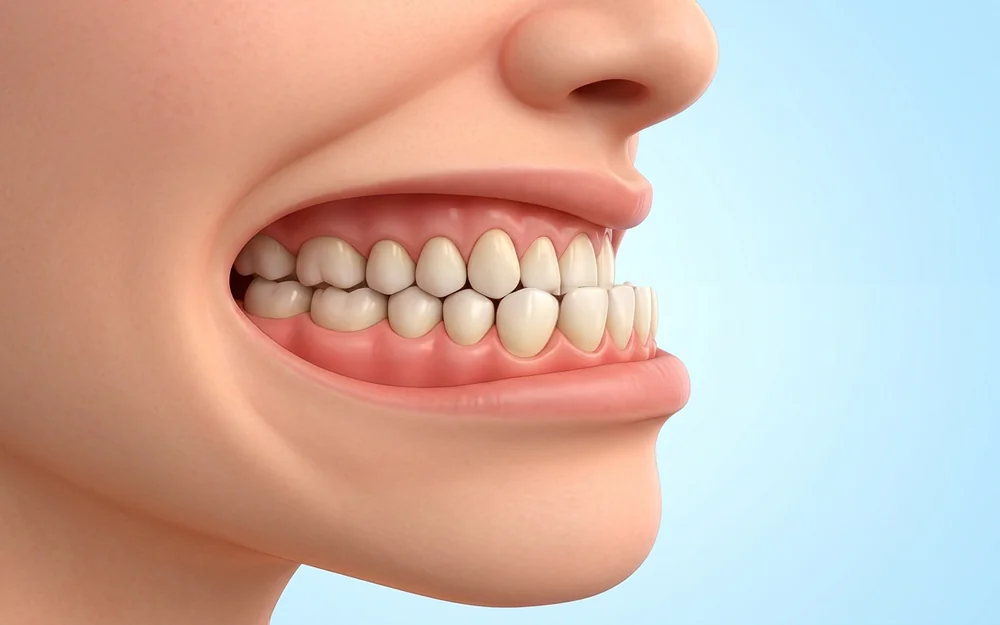
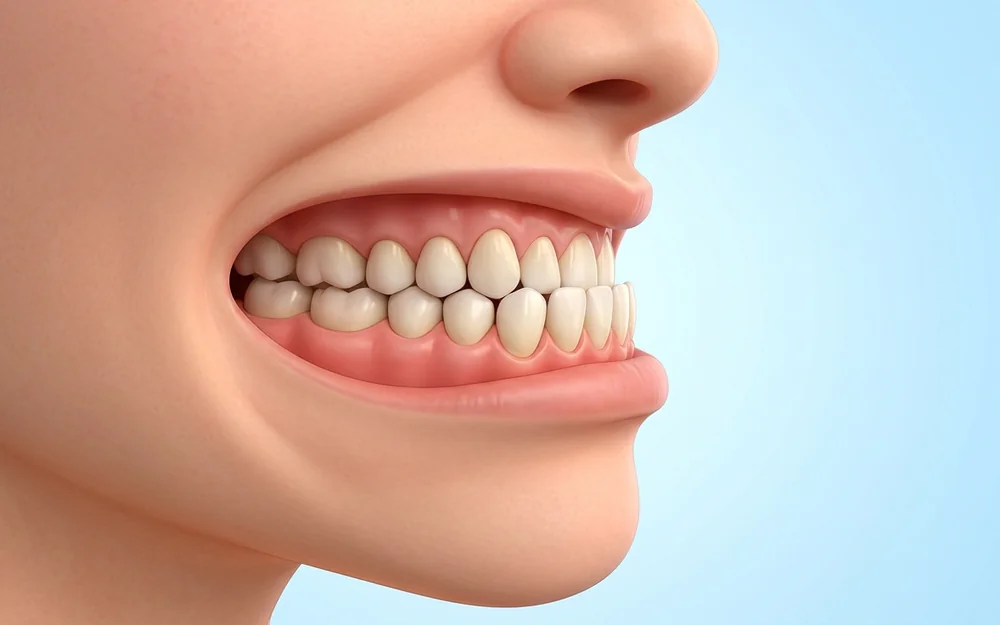
Malocclusioni: ripristinata la terza classe originale; nuovo paragrafo sulla chirurgia ortognatica con l'immagine della terza classe grave
Claude-Session: https://claude.ai/code/session_01D1jf4jZQnPDjXWp1a4YFR6

Changed region(s): [[0.527, 0.456, 0.713, 0.9728]]

diff --git a/guida-ortodonzia/malocclusioni/index.html b/guida-ortodonzia/malocclusioni/index.html
@@ -244,9 +244,12 @@ footer.foot a{color:#fff}
 <p>L'arcata superiore è avanzata rispetto a quella inferiore, oppure la mandibola è arretrata. Spesso gli incisivi superiori sporgono. Le revisioni Cochrane indicano che i bambini con incisivi molto sporgenti hanno un rischio maggiore di traumi a questi denti, e che il trattamento precoce può ridurre questo rischio.</p><figure class="fig3d"><img src="/img/guida/sorriso-seconda-classe.webp" width="1000" height="625" alt="Seconda classe: incisivi superiori sporgenti, visti di profilo e di fronte" loading="lazy" decoding="async"><figcaption>Seconda classe: di profilo (a sinistra) gli incisivi superiori sporgono molto in avanti rispetto agli inferiori; a destra lo stesso sorriso visto di fronte. <span class="tag3d">Immagine illustrativa</span></figcaption></figure>
 <h3 id="terza-classe">Terza classe</h3>
 <p>La mandibola è avanzata o il mascellare superiore è arretrato, e i denti inferiori chiudono davanti a quelli superiori. Quando la causa è scheletrica, il momento della crescita in cui si interviene ha un peso importante.</p><figure class="fig3d"><img src="/img/guida/sorriso-terza-classe.webp" width="1000" height="625" alt="Terza classe: denti inferiori più avanti dei superiori, vista di profilo" loading="lazy" decoding="async"><figcaption>Terza classe: di profilo i denti inferiori chiudono avanti rispetto ai superiori e il mento appare pronunciato. <span class="tag3d">Immagine illustrativa</span></figcaption></figure>
+<h3 id="quando-serve-la-chirurgia-ortognatica">Quando serve la chirurgia ortognatica</h3>
+<p>Se la differenza tra mascellare superiore e mandibola è molto marcata, come nell'immagine qui sotto, e la crescita è terminata, l'apparecchio da solo non basta a correggere una seconda o una terza classe: può spostare i denti, ma non la posizione delle ossa. In questi casi si ricorre alla chirurgia ortognatica, un intervento che riposiziona il mascellare, la mandibola o entrambi.</p><figure class="fig3d"><img src="/img/guida/terza-classe-grave.webp" width="1000" height="625" alt="Terza classe grave, con mandibola molto avanzata, vista di profilo" loading="lazy" decoding="async"><figcaption>Terza classe molto marcata: la mandibola e il labbro inferiore sono nettamente avanti rispetto all&#x27;arcata superiore. In un adulto un caso così richiede di solito ortodonzia e chirurgia ortognatica. <span class="tag3d">Immagine illustrativa</span></figcaption></figure>
+<p>Il trattamento è combinato: l'ortodontista prepara le arcate con l'apparecchio prima dell'intervento, il chirurgo maxillo-facciale corregge la posizione delle ossa e dopo l'intervento l'apparecchio completa la chiusura dei denti. Nei bambini e nei ragazzi ancora in crescita, riconoscere per tempo una seconda o una terza classe scheletrica permette invece di valutare se è possibile guidare la crescita e ridurre il problema.</p>
 <h2 id="piu-problemi-insieme">Più problemi insieme</h2>
 <p>Nella pratica le malocclusioni si combinano spesso tra loro: per esempio affollamento con morso profondo, o morso crociato con un palato stretto. La classificazione serve a descrivere il caso, ma il piano di trattamento si costruisce sull'insieme dei problemi del singolo paziente.</p>
-<div class="sintesi"><h2>In sintesi</h2><ul><li>Le malocclusioni sono molto diffuse e di tipi diversi: di spazio, verticali, trasversali e antero-posteriori.</li><li>Alcune, come il morso crociato e gli incisivi molto sporgenti, conviene valutarle durante la crescita.</li><li>Il piano di trattamento considera tutti i problemi del paziente insieme.</li></ul></div><details class="bib"><summary>Fonti scientifiche</summary><ol><li>Alhammadi MS, Halboub E, Fayed MS, Labib A, El-Saaidi C. Global distribution of malocclusion traits: a systematic review. Dental Press J Orthod. 2018;23(6):40.e1-40.e10. <a href="https://doi.org/10.1590/2177-6709.23.6.40.e1-10.onl" rel="noopener">DOI: 10.1590/2177-6709.23.6.40.e1-10.onl</a> PMID: 30672991.</li><li>Batista KBSL, Thiruvenkatachari B, Harrison JE, O'Brien KD. Orthodontic treatment for prominent upper front teeth (Class II malocclusion) in children and adolescents. Cochrane Database Syst Rev. 2018;3:CD003452. <a href="https://doi.org/10.1002/14651858.CD003452.pub4" rel="noopener">DOI: 10.1002/14651858.CD003452.pub4</a> PMID: 29534303.</li><li>Ugolini A, Agostino P, Silvestrini-Biavati A, Harrison JE, Batista KBSL. Orthodontic treatment for posterior crossbites. Cochrane Database Syst Rev. 2021;12:CD000979. <a href="https://doi.org/10.1002/14651858.CD000979.pub3" rel="noopener">DOI: 10.1002/14651858.CD000979.pub3</a> PMID: 34951927.</li><li>Millett DT, Cunningham SJ, O'Brien KD, Benson PE, de Oliveira CM. Orthodontic treatment for deep bite and retroclined upper front teeth in children. Cochrane Database Syst Rev. 2018;2:CD005972. <a href="https://doi.org/10.1002/14651858.CD005972.pub4" rel="noopener">DOI: 10.1002/14651858.CD005972.pub4</a></li></ol></details><div class="cta"><p>Hai dubbi su questo argomento? Parlane alla visita.</p><div class="acts"><a class="btn light" href="tel:+393921873886" data-track="tel_cap2">Chiama</a><a class="btn line" href="https://wa.me/393921873886" target="_blank" rel="noopener" data-track="whatsapp_cap2">WhatsApp</a></div></div><aside class="author-box" aria-label="L'autrice"><img class="" src="https://static.wixstatic.com/media/d8fd36_3d2ea2b030e64a1b9d21d2137a645a65~mv2.jpg/v1/crop/x_1300,y_380,w_1100,h_1375/fill/w_240,h_300,al_c,q_85/dott-ssa-irene-agrestini.jpg" width="120" height="150" alt="Dott.ssa Irene Agrestini, ortodontista a Pescara" loading="lazy"><div><span class="eyebrow">Chi ha scritto questo capitolo</span><br><b>Dott.ssa Irene Agrestini</b><p>Ortodontista a Pescara. Da 38 anni la sua attività clinica è dedicata esclusivamente all'ortodonzia e all'odontoiatria pediatrica, nello Studio Smile Art Serenity, dove lavora insieme al Dott. Paolo Trisi. Laureata nel 1988, iscritta all'Albo degli Odontoiatri di Pescara n. 85.</p><div class="links"><a href="/#chi-e">Profilo</a><a href="https://www.smileartserenity.com">Studio Smile Art Serenity</a><a href="https://www.smileartserenity.com/team-odontoiatrico-pescara">Il team dello studio</a><a href="https://maps.app.goo.gl/p5TncykRiKeRiyfu7">Recensioni su Google</a></div></div></aside><nav class="nextprev" aria-label="Capitoli vicini"><a class="np prev" href="/guida-ortodonzia/quando-serve-ortodonzia/"><span>← Capitolo 1</span><b>Quando serve l&#x27;ortodonzia</b></a><a class="np next" href="/guida-ortodonzia/prima-visita-ortodontica-bambini/"><span>Capitolo 3 →</span><b>La prima visita del bambino</b></a></nav><p class="note">Le informazioni di questo capitolo hanno scopo divulgativo e non sostituiscono la visita. Ogni trattamento viene valutato sul singolo paziente.</p></article></main><section class="contact" id="contatti"><div class="wrap">
+<div class="sintesi"><h2>In sintesi</h2><ul><li>Le malocclusioni sono molto diffuse e di tipi diversi: di spazio, verticali, trasversali e antero-posteriori.</li><li>Alcune, come il morso crociato e gli incisivi molto sporgenti, conviene valutarle durante la crescita.</li><li>Quando la differenza tra le ossa è molto marcata e la crescita è terminata, all&#x27;apparecchio si associa la chirurgia ortognatica.</li><li>Il piano di trattamento considera tutti i problemi del paziente insieme.</li></ul></div><details class="bib"><summary>Fonti scientifiche</summary><ol><li>Alhammadi MS, Halboub E, Fayed MS, Labib A, El-Saaidi C. Global distribution of malocclusion traits: a systematic review. Dental Press J Orthod. 2018;23(6):40.e1-40.e10. <a href="https://doi.org/10.1590/2177-6709.23.6.40.e1-10.onl" rel="noopener">DOI: 10.1590/2177-6709.23.6.40.e1-10.onl</a> PMID: 30672991.</li><li>Batista KBSL, Thiruvenkatachari B, Harrison JE, O'Brien KD. Orthodontic treatment for prominent upper front teeth (Class II malocclusion) in children and adolescents. Cochrane Database Syst Rev. 2018;3:CD003452. <a href="https://doi.org/10.1002/14651858.CD003452.pub4" rel="noopener">DOI: 10.1002/14651858.CD003452.pub4</a> PMID: 29534303.</li><li>Ugolini A, Agostino P, Silvestrini-Biavati A, Harrison JE, Batista KBSL. Orthodontic treatment for posterior crossbites. Cochrane Database Syst Rev. 2021;12:CD000979. <a href="https://doi.org/10.1002/14651858.CD000979.pub3" rel="noopener">DOI: 10.1002/14651858.CD000979.pub3</a> PMID: 34951927.</li><li>Millett DT, Cunningham SJ, O'Brien KD, Benson PE, de Oliveira CM. Orthodontic treatment for deep bite and retroclined upper front teeth in children. Cochrane Database Syst Rev. 2018;2:CD005972. <a href="https://doi.org/10.1002/14651858.CD005972.pub4" rel="noopener">DOI: 10.1002/14651858.CD005972.pub4</a></li></ol></details><div class="cta"><p>Hai dubbi su questo argomento? Parlane alla visita.</p><div class="acts"><a class="btn light" href="tel:+393921873886" data-track="tel_cap2">Chiama</a><a class="btn line" href="https://wa.me/393921873886" target="_blank" rel="noopener" data-track="whatsapp_cap2">WhatsApp</a></div></div><aside class="author-box" aria-label="L'autrice"><img class="" src="https://static.wixstatic.com/media/d8fd36_3d2ea2b030e64a1b9d21d2137a645a65~mv2.jpg/v1/crop/x_1300,y_380,w_1100,h_1375/fill/w_240,h_300,al_c,q_85/dott-ssa-irene-agrestini.jpg" width="120" height="150" alt="Dott.ssa Irene Agrestini, ortodontista a Pescara" loading="lazy"><div><span class="eyebrow">Chi ha scritto questo capitolo</span><br><b>Dott.ssa Irene Agrestini</b><p>Ortodontista a Pescara. Da 38 anni la sua attività clinica è dedicata esclusivamente all'ortodonzia e all'odontoiatria pediatrica, nello Studio Smile Art Serenity, dove lavora insieme al Dott. Paolo Trisi. Laureata nel 1988, iscritta all'Albo degli Odontoiatri di Pescara n. 85.</p><div class="links"><a href="/#chi-e">Profilo</a><a href="https://www.smileartserenity.com">Studio Smile Art Serenity</a><a href="https://www.smileartserenity.com/team-odontoiatrico-pescara">Il team dello studio</a><a href="https://maps.app.goo.gl/p5TncykRiKeRiyfu7">Recensioni su Google</a></div></div></aside><nav class="nextprev" aria-label="Capitoli vicini"><a class="np prev" href="/guida-ortodonzia/quando-serve-ortodonzia/"><span>← Capitolo 1</span><b>Quando serve l&#x27;ortodonzia</b></a><a class="np next" href="/guida-ortodonzia/prima-visita-ortodontica-bambini/"><span>Capitolo 3 →</span><b>La prima visita del bambino</b></a></nav><p class="note">Le informazioni di questo capitolo hanno scopo divulgativo e non sostituiscono la visita. Ogni trattamento viene valutato sul singolo paziente.</p></article></main><section class="contact" id="contatti"><div class="wrap">
 <div><h2>Vuoi capire cosa è indicato nel tuo caso, o in quello di tuo figlio?</h2>
 <p>La guida dà informazioni generali. Una visita con la Dott.ssa Agrestini permette di passare a una valutazione personale. La prima visita ortodontica è gratuita.</p>
 <div class="acts"><a class="btn light" href="tel:+393921873886" data-track="tel_guida_band">Chiama 392 187 3886</a><a class="btn line" href="https://wa.me/393921873886" target="_blank" rel="noopener" data-track="whatsapp_guida_band">Scrivi su WhatsApp</a></div></div>
